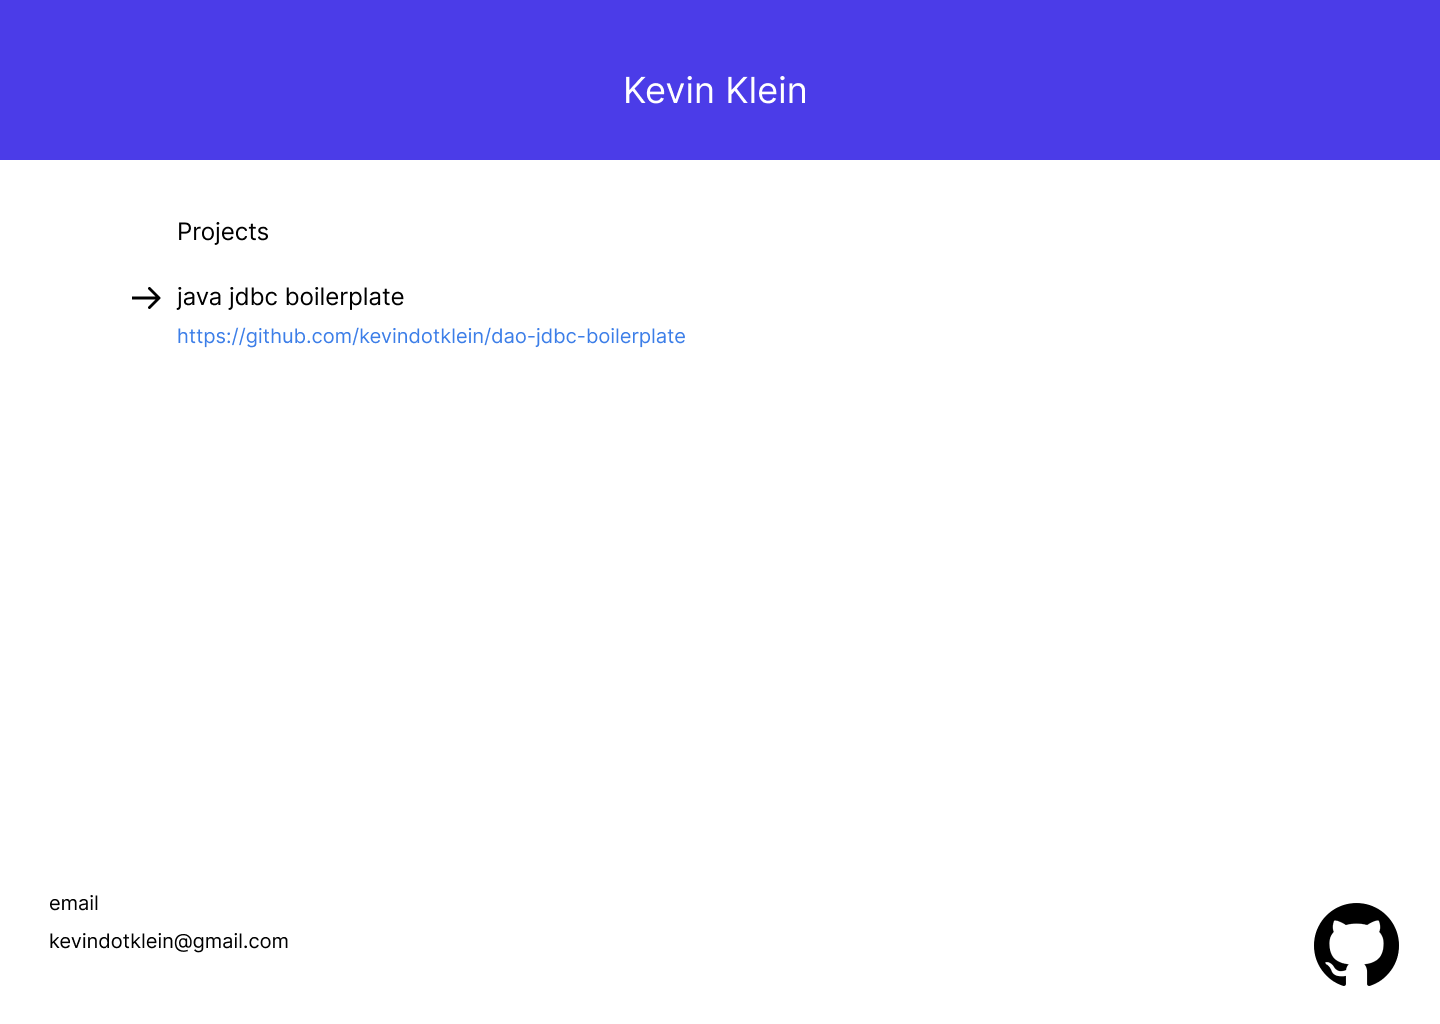
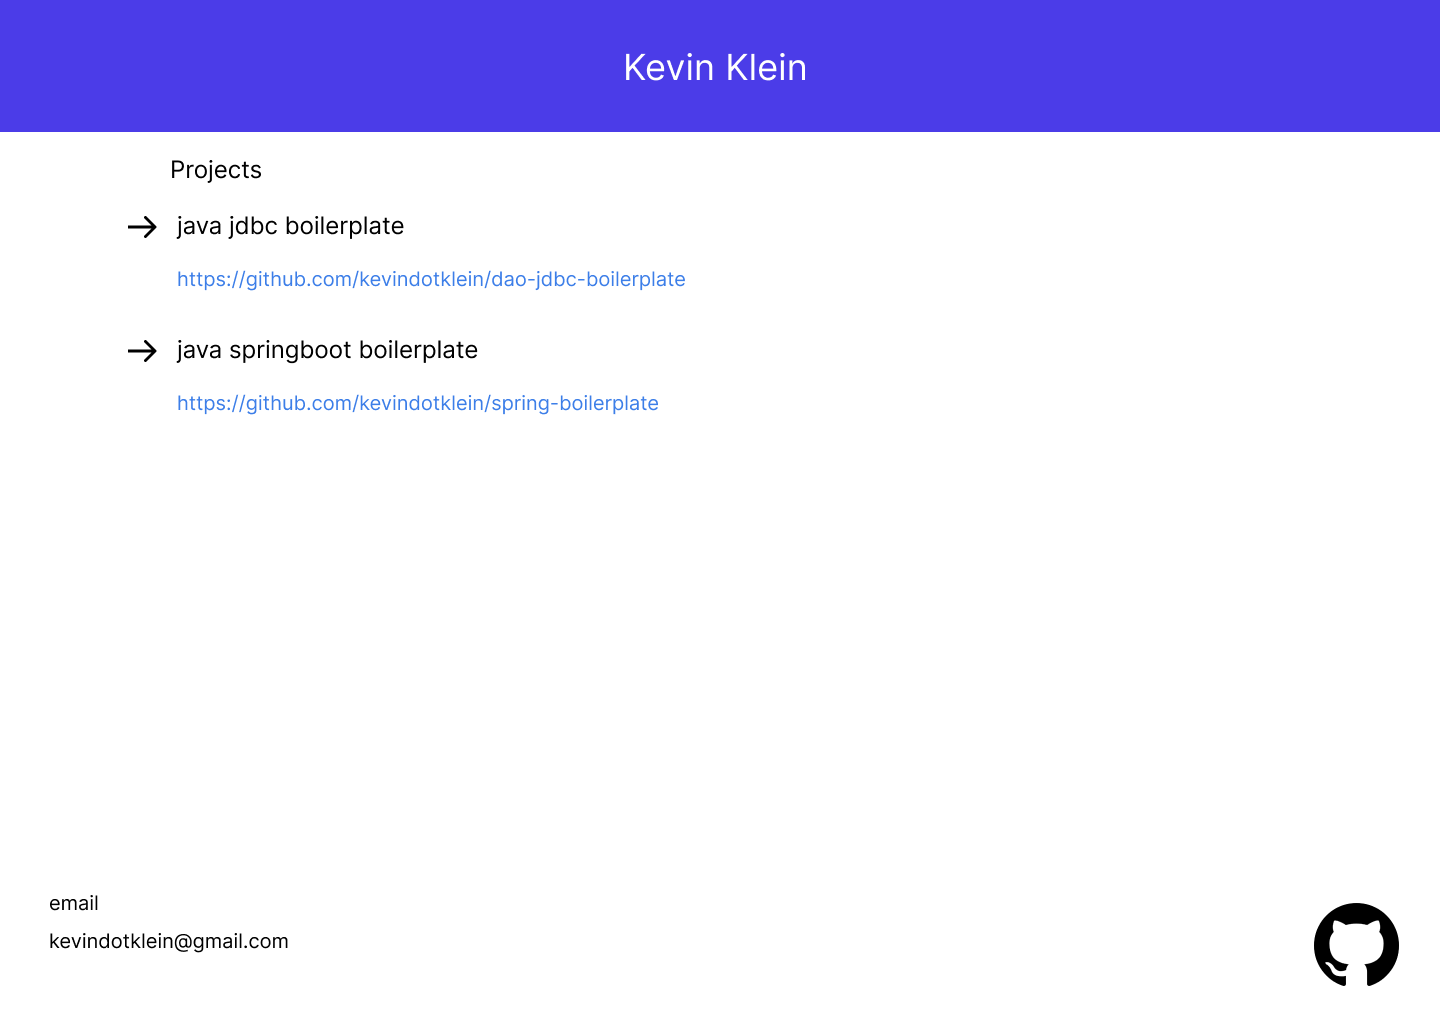
a3

Changed region(s): [[0.0938, 0.2188, 0.4688, 0.4062], [0.0, 0.125, 1.0, 0.1875], [0.4375, 0.0312, 0.5625, 0.0938]]

diff --git a/a3/index.html b/a3/index.html
@@ -1,0 +1,44 @@
+<!DOCTYPE html>
+<html lang="en">
+<head>
+    <meta charset="UTF-8">
+    <meta http-equiv="X-UA-Compatible" content="IE=edge">
+    <meta name="viewport" content="width=device-width, initial-scale=1.0">
+    <title>wireframe</title>
+    <link rel="stylesheet" href="./style.css">
+    <link rel="icon" href="./assets/favicon.svg" type="image/x-icon">
+</head>
+<body>
+    <header>
+        <h1>Kevin Klein</h1>
+    </header>
+
+    <main>
+        <h3 class="projects-label">Projects</h3>
+
+        <article>
+            <ul>
+                <li>
+                    <p class="project-name">java springboot boilerplate</p>
+                    <a href="https://github.com/kevindotklein/spring-boilerplate" target="_blank">https://github.com/kevindotklein/spring-boilerplate</a>
+                </li>
+                <li>
+                    <p class="project-name">java jdbc boilerplate</p>
+                    <a href="https://github.com/kevindotklein/dao-jdbc-boilerplate" target="_blank">https://github.com/kevindotklein/dao-jdbc-boilerplate</a>
+                </li>
+            </ul>
+        </article>
+    </main>
+
+    <footer>
+        <div class="email-wrapper">
+            <p>email</p>
+            <p class="email">kevindotklein@gmail.com</p>
+        </div>
+
+        <a href="https://github.com/kevindotklein" target="_blank">
+            <img src="./assets/github-logo.png" class="github" alt="github" width="120px"/>
+        </a>
+    </footer>
+</body>
+</html>

diff --git a/a3/style.css b/a3/style.css
@@ -1,0 +1,88 @@
+@import url('https://fonts.googleapis.com/css2?family=Inter:wght@100;300;600;800&display=swap');
+
+:root{
+    --bg-color: #f0f4fa;
+    --header-color: #4b3ce8;
+    --link-color: #268beb;
+}
+
+*{
+    margin: 0;
+    padding: 0;
+    box-sizing: border-box;
+}
+
+html, body{
+    height: 100%;
+    background-color: var(--bg-color);
+    font-family: 'Inter', sans-serif;
+}
+
+a{
+    text-decoration: none;
+    color: #000;
+}
+
+a:hover{
+    color: var(--link-color);
+}
+
+header{
+    text-align: center;
+    background: var(--header-color);
+    padding: 3rem;
+}
+
+header h1{
+    font-weight: 300;
+    color: #fff;
+}
+
+main{
+    width: 80vw;
+    height: 70%;
+    margin: auto;
+}
+
+.projects-label{
+    font-weight: 300;
+    font-size: 24px;
+    margin: 15px 0 20px;
+}
+
+.project-name{
+    font-size: 20px;
+}
+
+article ul li{
+    list-style-type: none;
+    padding-left: 45px;
+    background-image: url('./assets/arrow.png');
+    background-repeat: no-repeat;
+    background-position: left center;
+    margin-bottom: 25px;
+}
+
+footer{
+    display: flex;
+    justify-content: space-between;
+    align-items: center;
+    margin: 20px;
+}
+
+
+.email-wrapper{
+    display: flex;
+    flex-direction: column;
+}
+
+.email{
+    margin-top: 5px;
+    font-weight: 600;
+}
+
+.github{
+    margin-left: auto;
+}
+
+

diff --git a/index.html b/index.html
@@ -5,7 +5,7 @@
     <meta http-equiv="X-UA-Compatible" content="IE=edge">
     <meta name="viewport" content="width=device-width, initial-scale=1.0">
     <title>DW1A3 - SP3096289</title>
-    <link rel="stylesheet" href="./css/dashboard.css" />
+    <link rel="stylesheet" href="./dashboard.css" />
 </head>
 <body>
     <header>
@@ -22,6 +22,11 @@
                 <li>
                     <a href="https://github.com/kevindotklein/dw1a3/tree/main/a2">
                         A2
+                    </a>
+                </li>
+                <li>
+                    <a href="https://kevindotklein.github.io/dw1a3/a3">
+                        A3
                     </a>
                 </li>
             </ul>

diff --git a/fizzbuzz/index.html b/fizzbuzz/index.html
@@ -5,7 +5,7 @@
     <meta http-equiv="X-UA-Compatible" content="IE=edge">
     <meta name="viewport" content="width=device-width, initial-scale=1.0">
     <title>fizzbuzz in pure functional</title>
-    <link rel="stylesheet" href="../css/fizzbuzz.css">
+    <link rel="stylesheet" href="./fizzbuzz.css">
 </head>
 <body>
     <div class="result-container">
